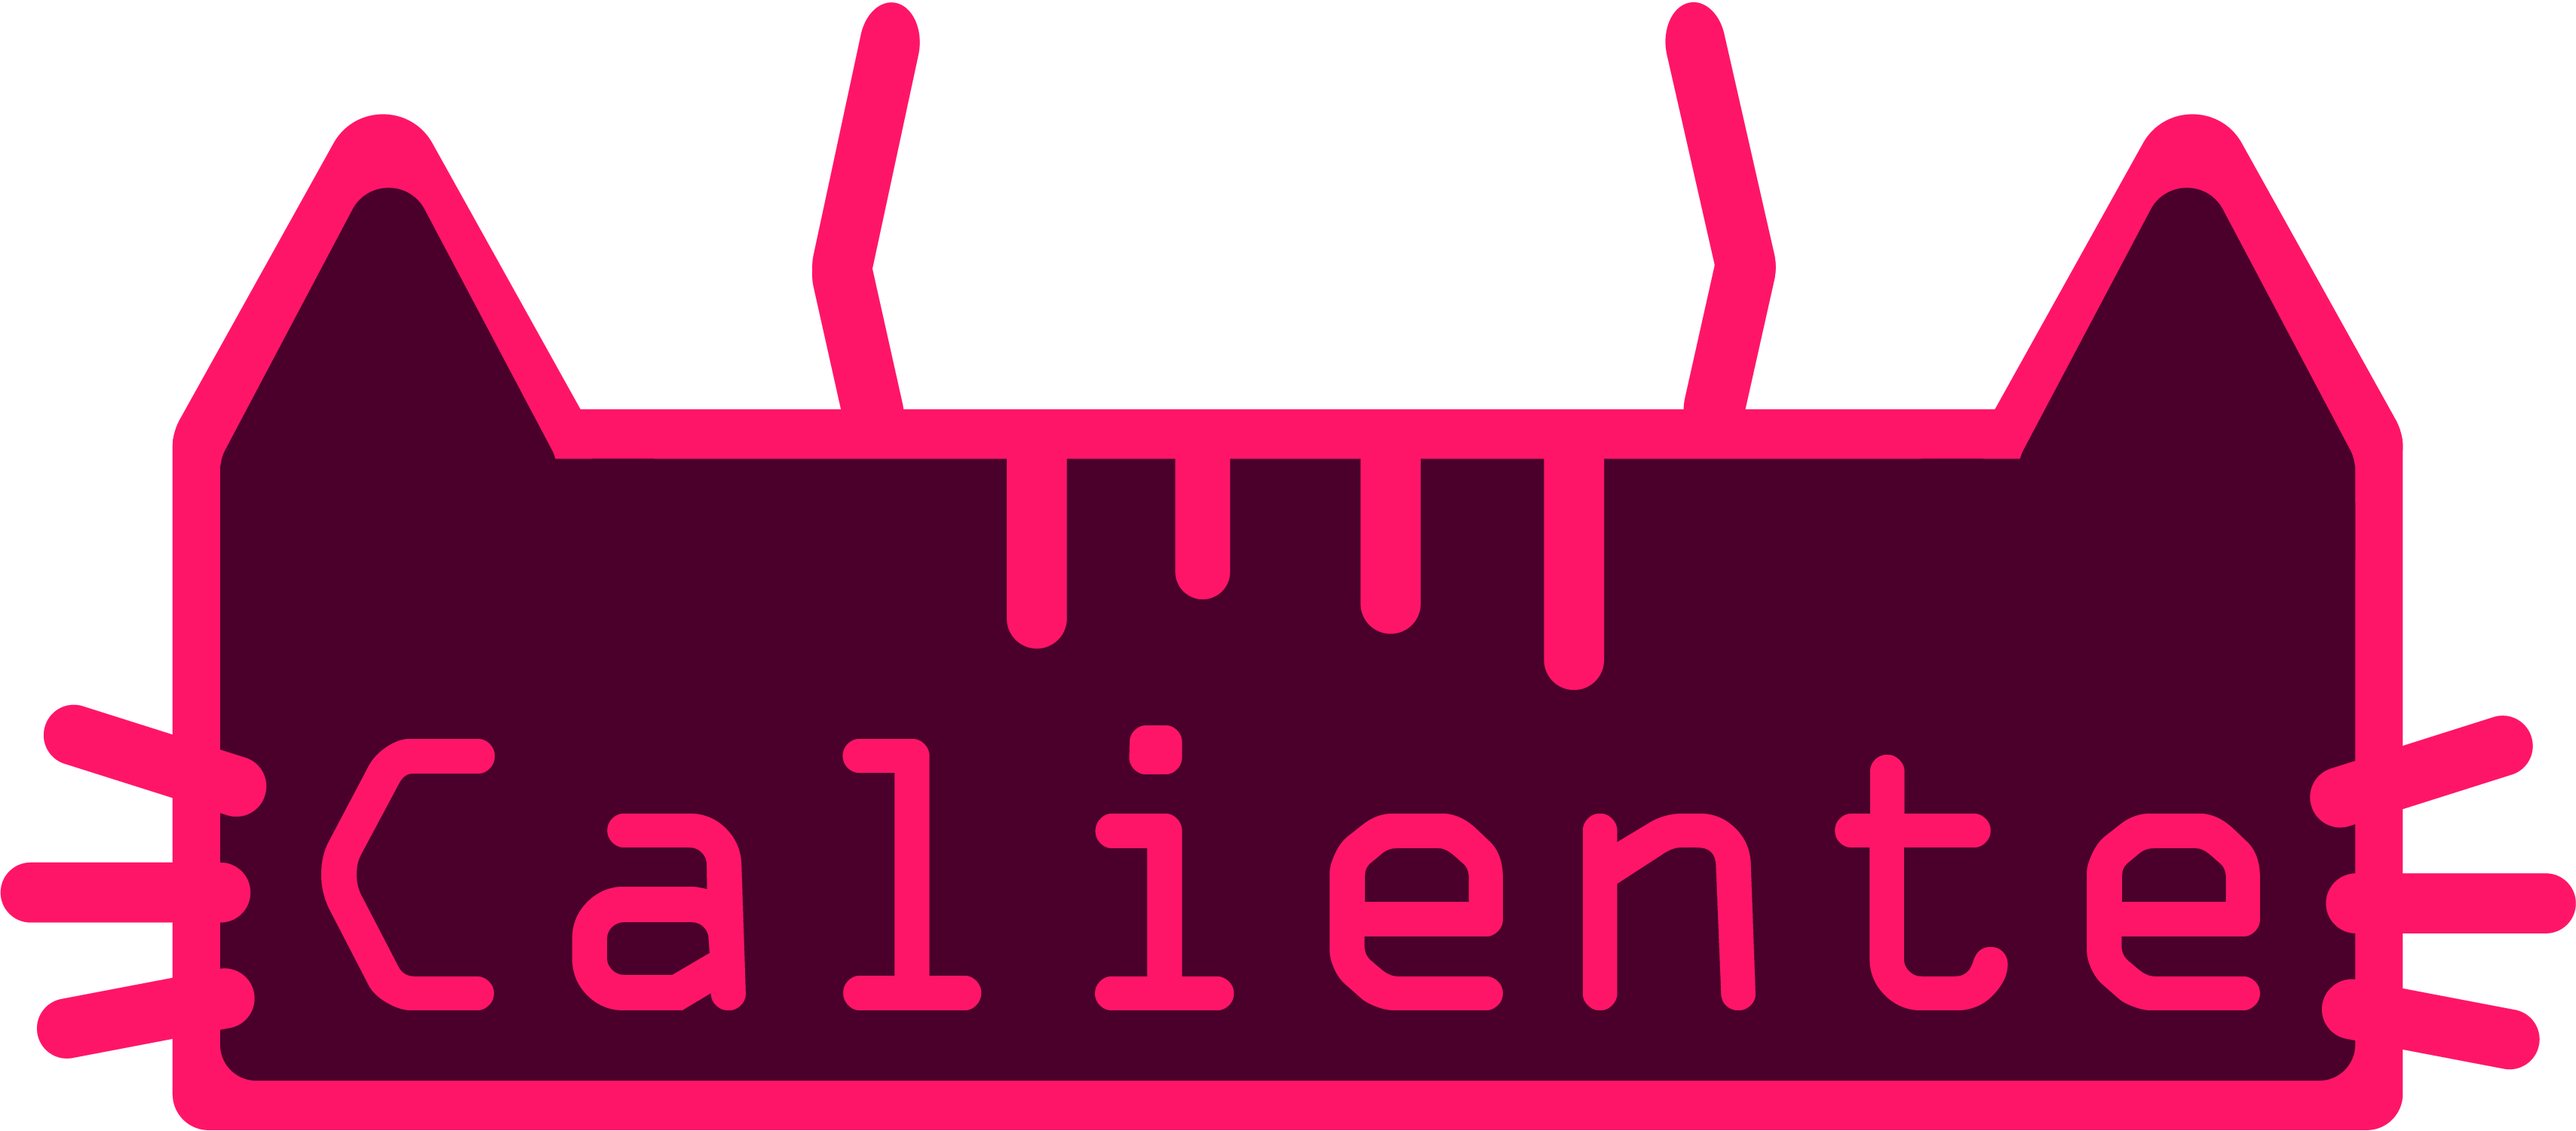
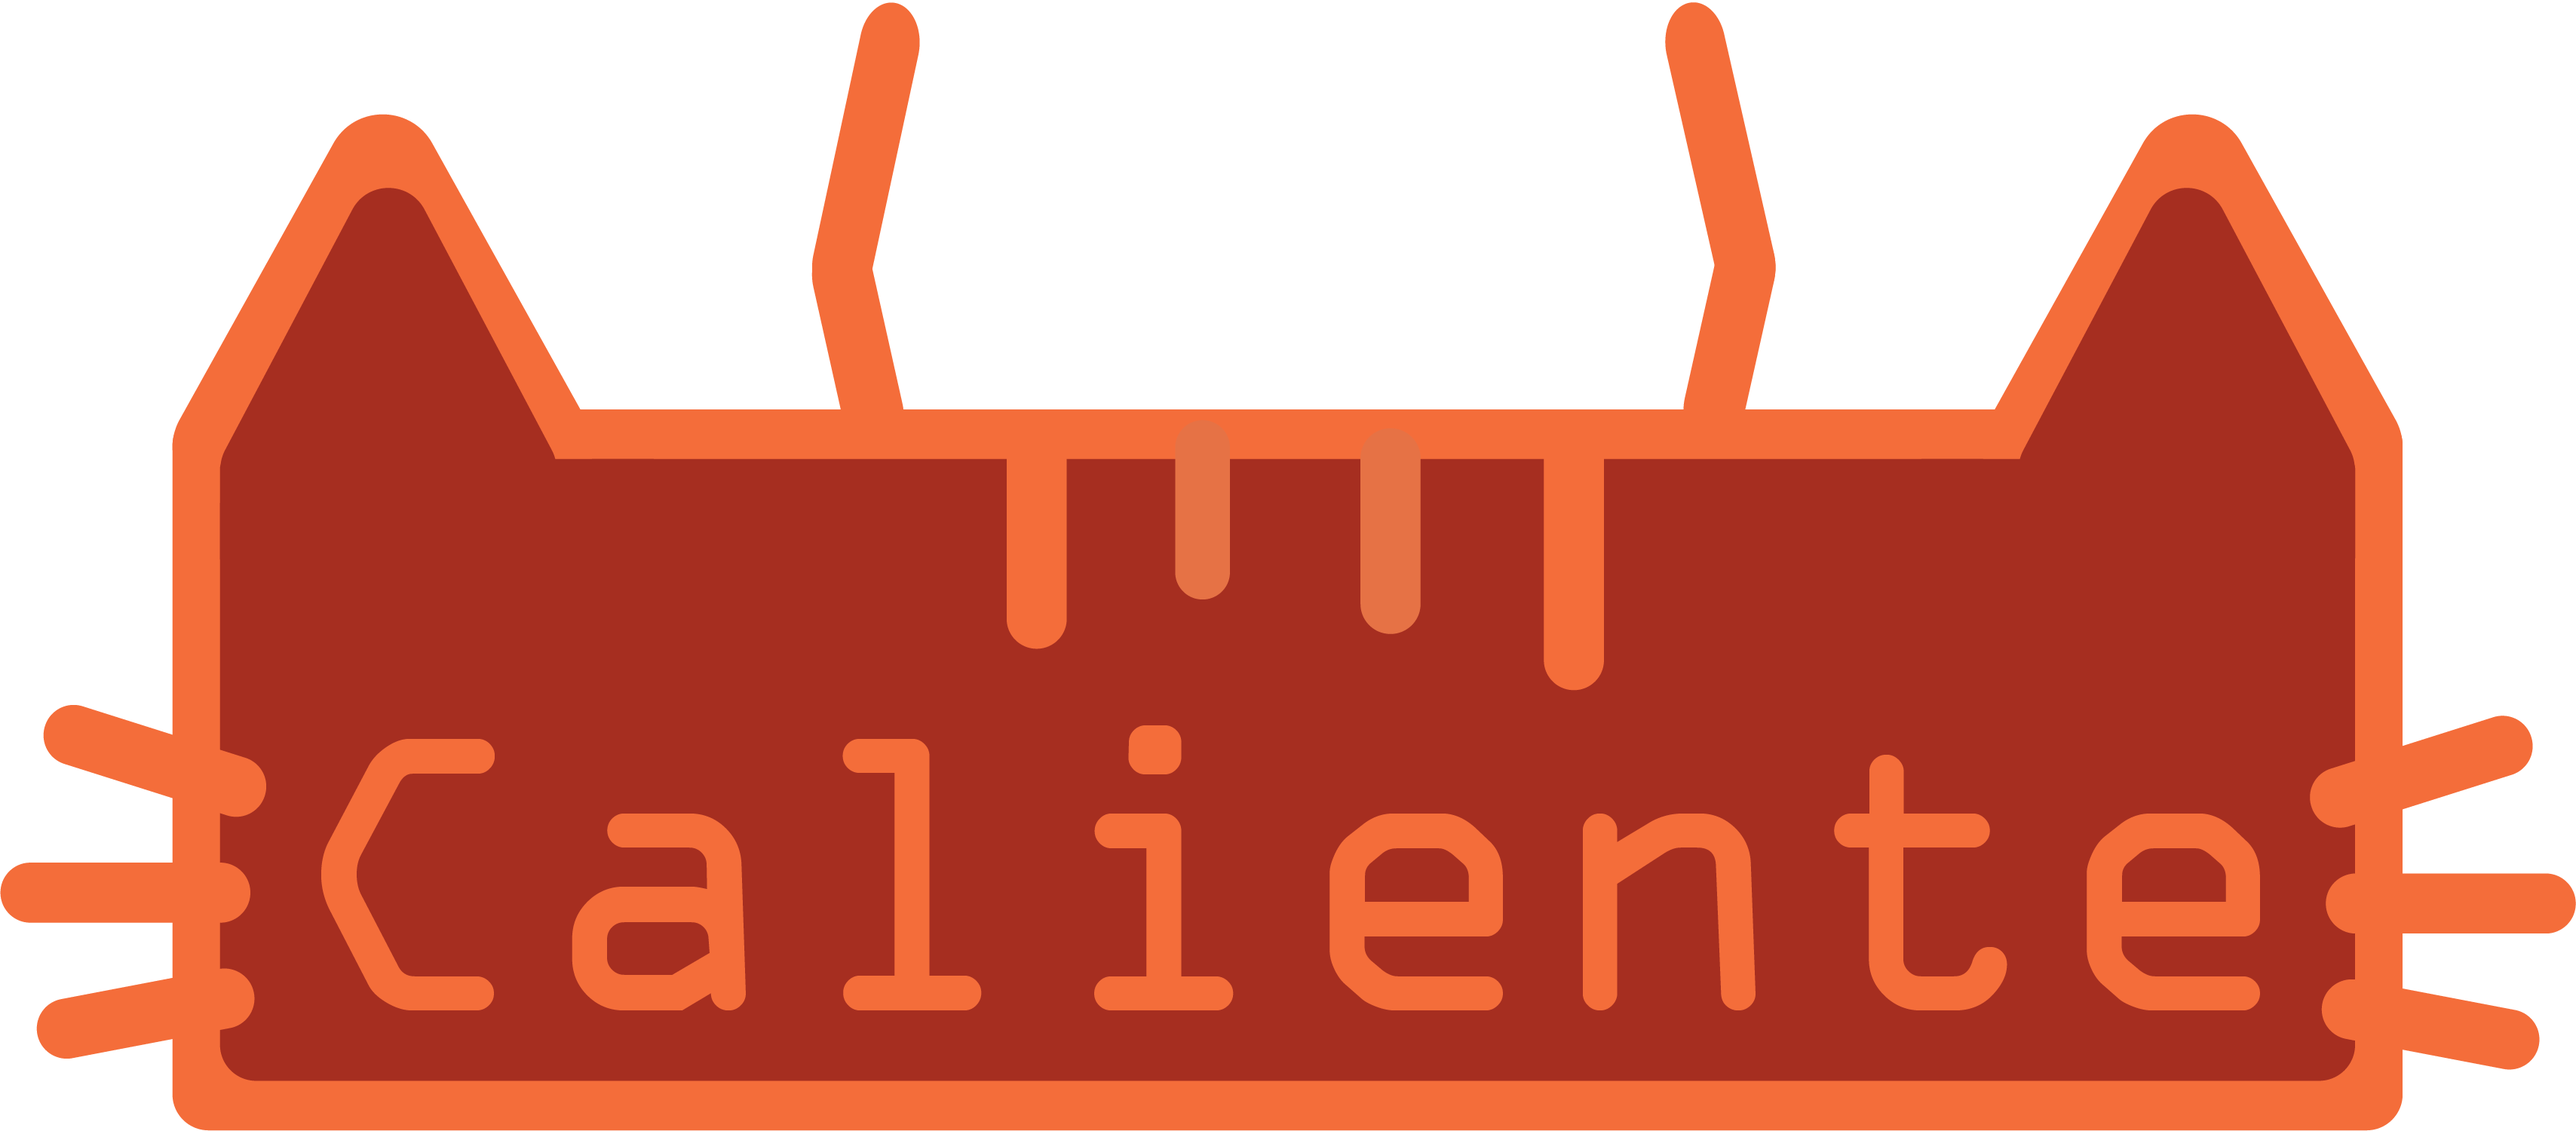
replace ui assets, added credits scene

diff --git a/scenes/Settings.js b/scenes/Settings.js
@@ -11,7 +11,8 @@ class Setting extends Phaser.Scene {
       this.load.image('minus', 'assets/images/minus.png');
       this.load.image('minusHover', 'assets/images/minusHover.png');
       this.load.image('back', 'assets/images/back.png');
-      this.load.image('backHover', 'assets/images/backHover.png');
+      this.load.image('backHover', 'assets/images/backHover.png');            
+      this.load.image('settings', 'assets/images/settings.png');
       this.load.image('menubackground', 'assets/images/tempbackground.jpg');
       this.load.image('background', 'assets/images/starfield.png');
    }
@@ -23,13 +24,18 @@ class Setting extends Phaser.Scene {
       // select sound
       this.selectSound = this.sound.add('select', {volume: sfxVol});
 
+      // add settings image
+      const settings = this.add.image(game.config.width/2, 200, 'settings').setOrigin(0.5);
+      settings.depth = 10;
+      settings.scale = 0.15; // scaling for the button
+      
       // add back hover
-      const exitHover = this.add.image(300, 600, 'backHover').setOrigin(0.5);
+      const exitHover = this.add.image(300, 585, 'backHover').setOrigin(0.5);
       exitHover.depth = 10;
       exitHover.scale = 0.15; // scaling for the button
 
       // exit button
-      const exitButton = this.add.image(300, 600, 'back').setOrigin(0.5);
+      const exitButton = this.add.image(300, 585, 'back').setOrigin(0.5);
       exitButton.setInteractive();
       exitButton.on('pointerdown', () => {
          pause = false;
@@ -49,17 +55,17 @@ class Setting extends Phaser.Scene {
       //exitButton.tint = 0xff0000; // temp tinting for the button
 
       // music title image
-      const musicTitle= this.add.image(150, 300, 'music').setOrigin(0.5);
+      const musicTitle= this.add.image(150, 330, 'music').setOrigin(0.5);
       musicTitle.depth = 10;
       musicTitle.scale = 0.15; // scaling for the button
 
       // add music vol up hover
-      const musicUpHover = this.add.image(500, 300, 'plusHover').setOrigin(0.5);
+      const musicUpHover = this.add.image(500, 330, 'plusHover').setOrigin(0.5);
       musicUpHover.depth = 10;
       musicUpHover.scale = 0.15; // scaling for the button
 
       // music volume up button
-      const musicVolumeUpButton = this.add.image(500, 300, 'plus').setOrigin(0.5);
+      const musicVolumeUpButton = this.add.image(500, 330, 'plus').setOrigin(0.5);
       musicVolumeUpButton.setInteractive();
       musicVolumeUpButton.on('pointerdown', () => {
          this.selectSound.play({volume: sfxVol});
@@ -81,12 +87,12 @@ class Setting extends Phaser.Scene {
       //musicVolumeUpButton.tint = 0x00ff00; // temp tinting for the button
 
       // add music vol down hover
-      const musicDownHover = this.add.image(400, 300, 'minusHover').setOrigin(0.5);
+      const musicDownHover = this.add.image(400, 330, 'minusHover').setOrigin(0.5);
       musicDownHover.depth = 10;
       musicDownHover.scale = 0.15; // scaling for the button
 
       // music volume down button
-      const musicVolumeDownButton = this.add.image(400, 300, 'minus').setOrigin(0.5);
+      const musicVolumeDownButton = this.add.image(400, 330, 'minus').setOrigin(0.5);
       musicVolumeDownButton.setInteractive();
       musicVolumeDownButton.on('pointerdown', () => {
          this.selectSound.play({volume: sfxVol});
@@ -108,17 +114,17 @@ class Setting extends Phaser.Scene {
       //musicVolumeDownButton.tint = 0x00ff00; // temp tinting for the button
 
       // sfx title image
-      const sfxTitle= this.add.image(150, 400, 'sfx').setOrigin(0.5);
+      const sfxTitle= this.add.image(150, 450, 'sfx').setOrigin(0.5);
       sfxTitle.depth = 10;
       sfxTitle.scale = 0.15; // scaling for the button
 
       // add sfx vol up hover
-      const sfxUpHover = this.add.image(500, 400, 'plusHover').setOrigin(0.5);
+      const sfxUpHover = this.add.image(500, 450, 'plusHover').setOrigin(0.5);
       sfxUpHover.depth = 10;
       sfxUpHover.scale = 0.15; // scaling for the button
 
       // sfx volume up button
-      const sfxVolumeUpButton = this.add.image(500, 400, 'plus').setOrigin(0.5);
+      const sfxVolumeUpButton = this.add.image(500, 450, 'plus').setOrigin(0.5);
       sfxVolumeUpButton.setInteractive();
       sfxVolumeUpButton.on('pointerdown', () => {
          this.selectSound.play({volume: sfxVol});
@@ -139,12 +145,12 @@ class Setting extends Phaser.Scene {
       //sfxVolumeUpButton.tint = 0x00ff00; // temp tinting for the button
 
       // add sfx vol down hover
-      const sfxDownHover = this.add.image(400, 400, 'minusHover').setOrigin(0.5);
+      const sfxDownHover = this.add.image(400, 450, 'minusHover').setOrigin(0.5);
       sfxDownHover.depth = 10;
       sfxDownHover.scale = 0.15; // scaling for the button
 
       // sfx volume down button
-      const sfxVolumeDownButton = this.add.image(400, 400, 'minus').setOrigin(0.5);
+      const sfxVolumeDownButton = this.add.image(400, 450, 'minus').setOrigin(0.5);
       sfxVolumeDownButton.setInteractive();
       sfxVolumeDownButton.on('pointerdown', () => {
          this.selectSound.play({volume: sfxVol});

diff --git a/scenes/Menu.js b/scenes/Menu.js
@@ -15,6 +15,8 @@ class Menu extends Phaser.Scene {
       this.load.image('background', 'assets/images/starfield.png');
       this.load.audio('backgroundmusic', 'assets/sounds/Catlien.wav');
       this.load.audio('select', 'assets/sounds/select.wav');
+      this.load.image('credits', 'assets/images/credits.png');
+      this.load.image('creditsHover', 'assets/images/creditsHover.png');
    }
 
    create() {
@@ -36,15 +38,15 @@ class Menu extends Phaser.Scene {
 
 
       // add title
-      const title = this.add.image(game.config.width/2, 225, 'title').setOrigin(0.5);
+      const title = this.add.image(game.config.width/2, 200, 'title').setOrigin(0.5);
       title.scale = 0.13;
       
       // add play hover image
-      const playHover = this.add.image(game.config.width/2, 400, 'playHover').setOrigin(0.5);
+      const playHover = this.add.image(game.config.width/2, 375, 'playHover').setOrigin(0.5);
       playHover.scale = 0.15; // scaling for the button
 
       // play button
-      const playButton = this.add.image(game.config.width/2, 400, 'play').setOrigin(0.5);
+      const playButton = this.add.image(game.config.width/2, 375, 'play').setOrigin(0.5);
       playButton.setInteractive();
       playButton.on('pointerdown', () => {
          this.selectSound.play({volume: sfxVol});
@@ -60,11 +62,11 @@ class Menu extends Phaser.Scene {
       playButton.scale = 0.15; // scaling for the button
 
       // add setting hover image
-      const settingHover = this.add.image(game.config.width/2, 500, 'settingsHover').setOrigin(0.5);
+      const settingHover = this.add.image(game.config.width/2, 475, 'settingsHover').setOrigin(0.5);
       settingHover.scale = 0.15; // scaling for the button
 
       // setting button
-      const settingButton = this.add.image(game.config.width/2, 500, 'settings').setOrigin(0.5);
+      const settingButton = this.add.image(game.config.width/2, 475, 'settings').setOrigin(0.5);
       settingButton.setInteractive();
       settingButton.on('pointerdown', () => {
          this.selectSound.play({volume: sfxVol});
@@ -80,11 +82,11 @@ class Menu extends Phaser.Scene {
       settingButton.scale = 0.15; // scaling for the button
 
       // add howTo hover image
-      const howToHover = this.add.image(game.config.width/2, 600, 'howToHover').setOrigin(0.5);
+      const howToHover = this.add.image(game.config.width/2, 575, 'howToHover').setOrigin(0.5);
       howToHover.scale = 0.15; // scaling for the button
 
       // how to play button
-      const howTo = this.add.image(game.config.width/2, 600, 'howTo').setOrigin(0.5);
+      const howTo = this.add.image(game.config.width/2, 575, 'howTo').setOrigin(0.5);
       howTo.setInteractive();
       howTo.on('pointerdown', () => {
          this.selectSound.play({volume: sfxVol});
@@ -98,6 +100,26 @@ class Menu extends Phaser.Scene {
       });
       howTo.input.alwaysEnabled = true; // prevents flickering between two images
       howTo.scale = 0.15; // scaling for the button
+
+      // add credits hover image
+      const creditsHover = this.add.image(game.config.width/2, 675, 'creditsHover').setOrigin(0.5);
+      creditsHover.scale = 0.15; // scaling for the button
+
+      // how to play button
+      const credits = this.add.image(game.config.width/2, 675, 'credits').setOrigin(0.5);
+      credits.setInteractive();
+      credits.on('pointerdown', () => {
+         this.selectSound.play({volume: sfxVol});
+         this.scene.pause().launch("creditsScene", {music: music});
+      });
+      credits.on('pointerover', () => { // reveal hover image
+         credits.alpha = 0;
+      });
+      credits.on('pointerout', () => {  // return og image
+         credits.alpha = 1;
+      });
+      credits.input.alwaysEnabled = true; // prevents flickering between two images
+      credits.scale = 0.15; // scaling for the button
 
    }
 

diff --git a/scenes/Play.js b/scenes/Play.js
@@ -83,7 +83,7 @@ class Play extends Phaser.Scene {
       this.holeTimer = this.time.addEvent({ delay: 2500, callback: this.addHoleRecursive, args: [5000,10000], callbackScope: this});
 
       // stamina bar
-      this.staminaBar = new staminaBar(this, 100, 725, 400, 30, 100, 4);
+      this.staminaBar = new staminaBar(this, 100, 725, 400, 30, 100, 6);
 
       // temp fps text
       this.fpsText = this.add.text(10, 40, "0", { fill: '#0f0'}).setOrigin(0, 0.5);
@@ -116,7 +116,7 @@ class Play extends Phaser.Scene {
       score.scale = 0.15; // scaling for the display
 
       // a temp height text
-      this.heightText = this.add.text(300, 50, this.height, { fill: '#ff1568', fontFamily: 'OCRAEXT', fontSize: 45}).setOrigin(0.5);
+      this.heightText = this.add.text(300, 50, this.height, { fill: '#f46d3a', fontFamily: 'OCRAEXT', fontSize: 45}).setOrigin(0.5);
       this.heightText.depth = 10;
    }
 
@@ -173,6 +173,7 @@ class Play extends Phaser.Scene {
    gameOver() {
       this.over = true;
       this.obstacle.runChildUpdate = false;
+      this.balconys.runChildUpdate = false;
       this.balconyTimer.destroy();
       this.debrisTimer.destroy();
       this.holeTimer.destroy();
@@ -180,11 +181,8 @@ class Play extends Phaser.Scene {
 
    // gameover menu function
    gameoverMenu() {
-
-
-         
       // game over image
-      const gameEnd = this.add.image(game.config.width/2, 300, 'gameOver').setOrigin(0.5);
+      const gameEnd = this.add.image(game.config.width/2, 350, 'gameOver').setOrigin(0.5);
       gameEnd.scale = 0.15;
       gameEnd.depth = 10;
 
@@ -192,12 +190,12 @@ class Play extends Phaser.Scene {
       this.endGame.play({volume: sfxVol});
 
       // add restart hover
-      const restartHover = this.add.image(200, 400, 'restartHover').setOrigin(0.5);
+      const restartHover = this.add.image(200, 450, 'restartHover').setOrigin(0.5);
       restartHover.depth = 10;
       restartHover.scale = 0.15; // scaling for the button
       
       // setting button
-      const restartButton = this.add.image(200, 400, 'restart').setOrigin(0.5);
+      const restartButton = this.add.image(200, 450, 'restart').setOrigin(0.5);
       restartButton.setInteractive();
       restartButton.on('pointerdown', () => {
          this.scene.restart();
@@ -213,12 +211,12 @@ class Play extends Phaser.Scene {
       restartButton.scale = 0.15; // scaling for the button
 
       // add menu hover
-      const menuHover = this.add.image(435, 400, 'menuHover').setOrigin(0.5);
+      const menuHover = this.add.image(435, 450, 'menuHover').setOrigin(0.5);
       menuHover.depth = 10;
       menuHover.scale = 0.15; // scaling for the button
       
       // menu button
-      const menuButton = this.add.image(435, 400, 'menu').setOrigin(0.5);
+      const menuButton = this.add.image(435, 450, 'menu').setOrigin(0.5);
       menuButton.setInteractive();
       menuButton.on('pointerdown', () => {
          this.scene.stop();

diff --git a/scenes/Credits.js b/scenes/Credits.js
@@ -1,0 +1,62 @@
+class Credits extends Phaser.Scene {
+    constructor() {
+       super("creditsScene");
+    }
+ 
+    preload() {
+       this.load.image('credits', 'assets/images/credits.png');
+       this.load.image('names', 'assets/images/names.png');
+       this.load.image('back', 'assets/images/back.png');
+       this.load.image('backHover', 'assets/images/backHover.png');
+       this.load.image('background', 'assets/images/starfield.png');
+       this.load.audio('select', 'assets/sounds/select.wav');
+    }
+ 
+    create() {
+ 
+        // select sound
+        this.selectSound = this.sound.add('select', {volume: sfxVol});
+
+        this.starfield = this.add.tileSprite(0, 0, 600, 800, 'background').setOrigin(0, 0);
+    
+        // add credits image
+        const credits = this.add.image(game.config.width/2, 200, 'credits').setOrigin(0.5);
+        credits.scale = 0.15;
+        
+        // add names image
+        const names = this.add.image(game.config.width/2, 400, 'names').setOrigin(0.5);
+        names.scale = 0.15;
+    
+        // add back hover
+        const exitHover = this.add.image(game.config.width/2, 595, 'backHover').setOrigin(0.5);
+        exitHover.depth = 10;
+        exitHover.scale = 0.15; // scaling for the button
+
+        // exit button
+        const exitButton = this.add.image(game.config.width/2, 595, 'back').setOrigin(0.5);
+        exitButton.setInteractive();
+        exitButton.on('pointerdown', () => {
+            pause = false;
+            this.selectSound.play({volume: sfxVol});
+            this.scene.stop();
+            this.scene.resume("menuScene");
+        });
+        exitButton.on('pointerover', () => { // reveal hover image
+            exitButton.alpha = 0;
+        });
+        exitButton.on('pointerout', () => {  // return og image
+            exitButton.alpha = 1;
+        });
+        exitButton.input.alwaysEnabled = true; // prevents flickering between two images
+        exitButton.depth = 10;
+        exitButton.scale = 0.15; // scaling for the button
+            //exitButton.tint = 0xff0000; // temp tinting for the button
+ 
+    }
+ 
+    update() {
+          // move bg
+          this.starfield.tilePositionY -= 5;
+    }
+ }
+ 

diff --git a/src/staminaBar.js b/src/staminaBar.js
@@ -25,18 +25,18 @@ class staminaBar {
       this.bar.clear();
 
       // draw the border
-      this.bar.fillStyle(0xff1568, 1); // pink border
+      this.bar.fillStyle(0xf46d3a, 1); // lighter orange border
       this.bar.fillRect(this.x, this.y, this.width, this.height);
 
       // draw the stamina bar background
-      this.bar.fillStyle(0xff1568, 1); // pink bar
+      this.bar.fillStyle(0xf46d3a, 1); // pink bar
       this.bar.fillRect(this.x + this.padding, this.y + this.padding, this.width - 2 * this.padding, this.height - 2 * this.padding);
    
       // sets stamina color
       if(this.value < 20) {
-         this.bar.fillStyle(0x4a002b, 1); // dark purple
+         this.bar.fillStyle(0xa62e20, 1); // darker orange
       } else {
-         this.bar.fillStyle(0x4a002b, 1);
+         this.bar.fillStyle(0xa62e20, 1);
       }
 
       // draw the remaining stamina bar

diff --git a/index.html b/index.html
@@ -4,7 +4,7 @@
    <meta charset="UTF-8">
    <meta http-equiv="X-UA-Compatible" content="IE=edge">
    <meta name="viewport" content="width=device-width, initial-scale=1">
-   <title>Alien Cat</title>
+   <title>Catliente</title>
    <link rel="preload" as="font" href="assets/OCRAEXT.TTF" type="font/ttf" />
    <link rel="stylesheet" href="styles.css">
    <div style="font-family: OCRAEXT; position: absolute; left:-1000px; visibility:hidden;">.</div>
@@ -20,6 +20,7 @@
       <script src="./scenes/Settings.js"></script>
       <script src="./scenes/Play.js"></script>
       <script src="./scenes/Tutorial.js"></script>
+      <script src="./scenes/Credits.js"></script>
       <script src="./src/main.js"></script>
 </body>
 </html>

diff --git a/src/main.js b/src/main.js
@@ -8,7 +8,7 @@ let config = {
    physics: {
       default: 'arcade',
    },
-   scene: [Menu, Play, Setting, Tutorial],
+   scene: [Menu, Play, Setting, Tutorial, Credits],
    autoCenter: true,
 }
 
